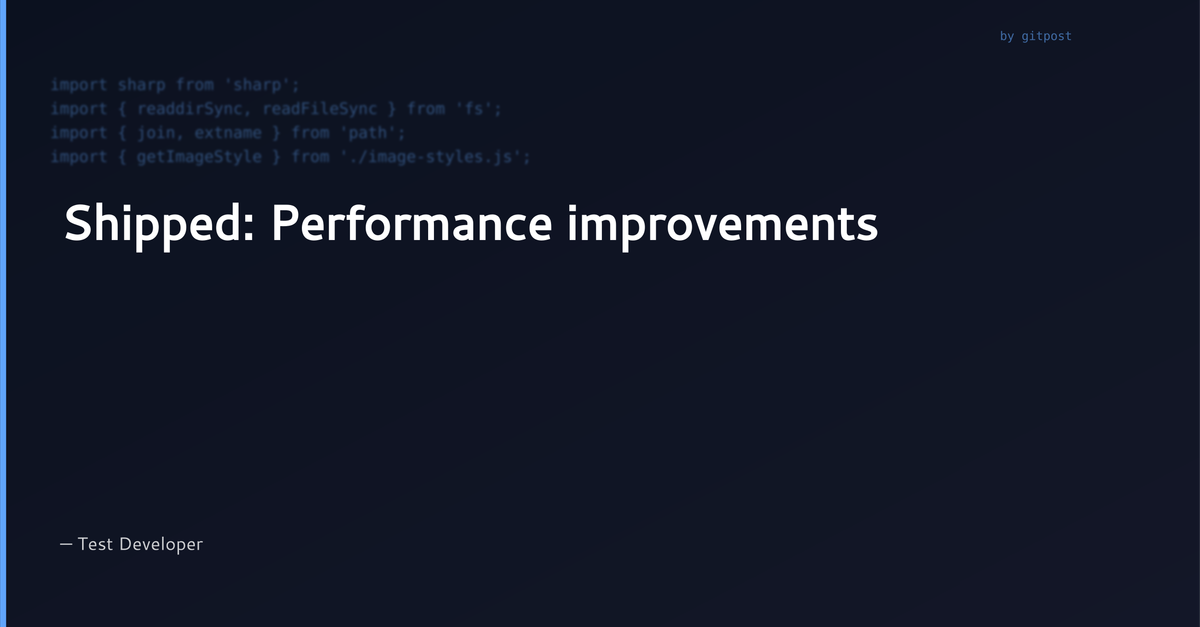
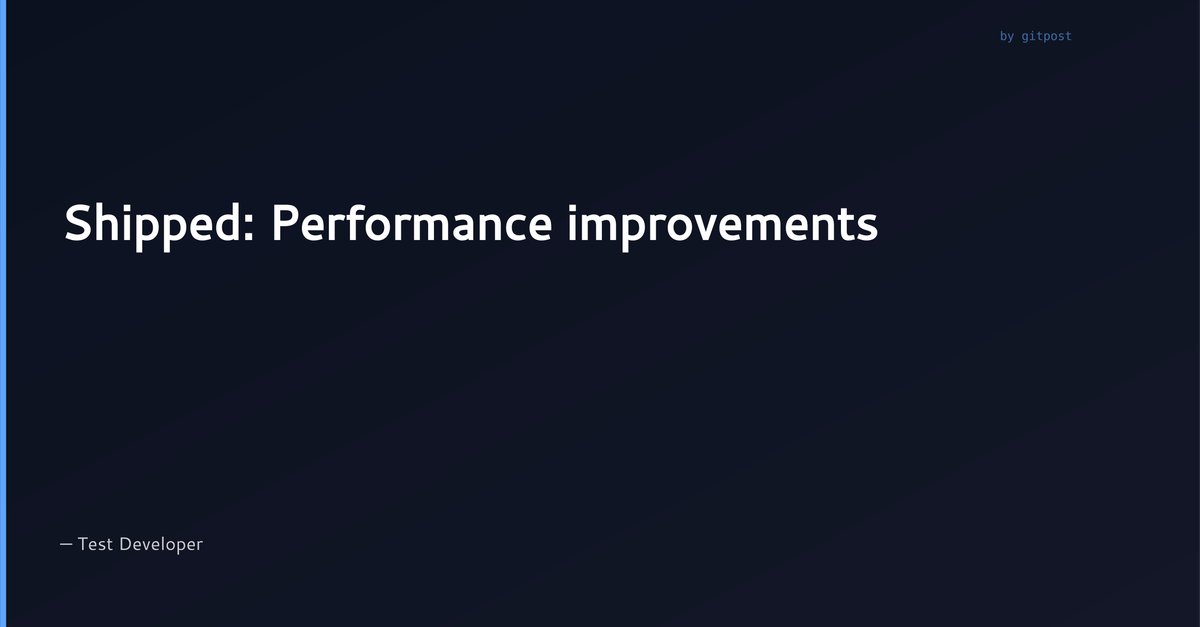
Fix: Extract code from changed files in git diff, not just diff content
- Use git diff-tree --name-only to get list of changed file paths
- Filter for code files (.js, .ts, .jsx, .tsx, .py, .java, .rb, .go, .rs, .c, .cpp, .cs, .php)
- Pick a random code file that was changed
- Read the actual file content from that commit version
- Use first 8 lines of code in the cover image
- Falls back to random src/ file if no code files changed
- Result: Image shows ACTUAL code from the developer's changes, not random project code

This is much better for LinkedIn posts - it displays the real work that was done.

diff --git a/src/image.js b/src/image.js
@@ -1,11 +1,66 @@
 import sharp from 'sharp';
 import { readdirSync, readFileSync } from 'fs';
+import { execSync } from 'child_process';
 import { join, extname } from 'path';
 import { getImageStyle } from './image-styles.js';
 
 // LinkedIn optimal cover image size
 const IMAGE_WIDTH = 1200;
 const IMAGE_HEIGHT = 627;
+
+/**
+ * Extract code from files changed in commit
+ * Gets the list of changed file paths from git diff, then reads code from those files
+ * @param {Array} commits - Commit objects with hash property
+ * @returns {string} Code snippet from changed files
+ */
+function extractCodeFromChangedFiles(commits) {
+  try {
+    if (!commits || commits.length === 0) {
+      return '';
+    }
+
+    // Get the most recent commit
+    const latestCommit = commits[0];
+    
+    // Get list of changed files in this commit
+    const filesChanged = execSync(
+      `git diff-tree --no-commit-id --name-only -r ${latestCommit.hash} 2>/dev/null || echo ""`,
+      { encoding: 'utf8', stdio: ['pipe', 'pipe', 'pipe'] }
+    ).trim().split('\n').filter(f => f.length > 0);
+
+    if (filesChanged.length === 0) {
+      return '';
+    }
+
+    // Filter for code files (js, ts, jsx, tsx, py, etc)
+    const codeFiles = filesChanged.filter(f => 
+      /\.(js|ts|jsx|tsx|py|java|rb|go|rs|c|cpp|h|cs|php)$/.test(f)
+    );
+
+    if (codeFiles.length === 0) {
+      return '';
+    }
+
+    // Pick a random code file
+    const randomFile = codeFiles[Math.floor(Math.random() * codeFiles.length)];
+    
+    // Read the file content
+    const content = execSync(
+      `git show ${latestCommit.hash}:${randomFile} 2>/dev/null || echo ""`,
+      { encoding: 'utf8', stdio: ['pipe', 'pipe', 'pipe'] }
+    );
+
+    if (content && content.length > 0) {
+      // Return first 8 lines
+      return content.split('\n').slice(0, 8).join('\n');
+    }
+
+    return '';
+  } catch (error) {
+    return '';
+  }
+}
 
 /**
  * Pick a random source file from the project
@@ -166,6 +221,7 @@ function createCoverSvg(headline, author, codeSnippet = '', style = {}) {
  * @param {string} options.outputPath - Where to save the image
  * @param {string} options.projectPath - Project root
  * @param {string} options.style - Image style name or config object
+ * @param {Array} options.commits - (Optional) Commit objects to extract code from
  * @returns {Promise<string>} Path to the generated image
  */
 export async function generateCoverImage({
@@ -174,6 +230,7 @@ export async function generateCoverImage({
   outputPath = './gitpost-cover.png',
   projectPath = process.cwd(),
   style = 'light_code',
+  commits = [],
 } = {}) {
   try {
     // Get style config
@@ -187,11 +244,19 @@ export async function generateCoverImage({
       styleConfig = style;
     }
 
-    // Get code snippet
+    // Get code snippet - prioritize git diff from commits
     let codeSnippet = '';
-    const sourceFile = pickRandomSourceFile(projectPath);
-    if (sourceFile) {
-      codeSnippet = sourceFile.content;
+    
+    if (commits && commits.length > 0) {
+      codeSnippet = extractCodeFromChangedFiles(commits);
+    }
+
+    // Fallback to random source file
+    if (!codeSnippet) {
+      const sourceFile = pickRandomSourceFile(projectPath);
+      if (sourceFile) {
+        codeSnippet = sourceFile.content;
+      }
     }
 
     // Create SVG

diff --git a/debug-code-extraction.js b/debug-code-extraction.js
@@ -1,0 +1,72 @@
+#!/usr/bin/env node
+
+import { execSync } from 'child_process';
+import { getCommits } from './src/git.js';
+
+async function debugCodeExtraction() {
+  console.log('🔍 Debugging code extraction from changed files\n');
+
+  try {
+    // Get recent commits
+    const commits = await getCommits({
+      author: '',
+      days: 7,
+    });
+
+    if (commits.length === 0) {
+      console.log('❌ No commits found');
+      return;
+    }
+
+    console.log(`📊 Latest commit:\n`);
+    const commit = commits[0];
+    console.log(`  Hash: ${commit.hash}`);
+    console.log(`  Message: ${commit.message}`);
+    console.log(`  Author: ${commit.author}\n`);
+
+    console.log('📝 Changed files in this commit:\n');
+    
+    // Get list of changed files
+    const filesChanged = execSync(
+      `git diff-tree --no-commit-id --name-only -r ${commit.hash}`,
+      { encoding: 'utf8' }
+    ).trim().split('\n');
+
+    filesChanged.forEach(f => console.log(`  - ${f}`));
+    console.log('');
+
+    // Filter for code files
+    const codeFiles = filesChanged.filter(f => 
+      /\.(js|ts|jsx|tsx|py|java|rb|go|rs|c|cpp|h|cs|php)$/.test(f)
+    );
+
+    console.log(`💻 Code files that changed: ${codeFiles.length}\n`);
+    codeFiles.forEach(f => console.log(`  - ${f}`));
+    console.log('');
+
+    if (codeFiles.length > 0) {
+      // Show content of first code file
+      const firstFile = codeFiles[0];
+      console.log(`📄 First file to be used: ${firstFile}\n`);
+      
+      const content = execSync(
+        `git show ${commit.hash}:${firstFile}`,
+        { encoding: 'utf8' }
+      );
+
+      const lines = content.split('\n').slice(0, 8);
+      console.log('Code from that file (first 8 lines):\n');
+      console.log('---');
+      lines.forEach(line => console.log(line));
+      console.log('---\n');
+      
+      console.log(`✅ ${lines.length} lines of code ready to be used in image`);
+    } else {
+      console.log('⚠  No code files found in this commit');
+    }
+  } catch (error) {
+    console.error('❌ Error:', error.message);
+  }
+}
+
+debugCodeExtraction();

diff --git a/test-git-diff.js b/test-git-diff.js
@@ -1,0 +1,51 @@
+#!/usr/bin/env node
+
+import { generateCoverImage } from './src/image.js';
+import { getCommits } from './src/git.js';
+
+async function test() {
+  console.log('🎨 Testing image generation with git diff code\n');
+
+  try {
+    // Get recent commits
+    const commits = await getCommits({
+      author: '',
+      days: 7,
+    });
+
+    if (commits.length === 0) {
+      console.log('❌ No commits found in last 7 days');
+      process.exit(1);
+    }
+
+    console.log(`📊 Found ${commits.length} commits\n`);
+    console.log('Latest commit:');
+    console.log(`  Hash: ${commits[0].hash}`);
+    console.log(`  Message: ${commits[0].message}`);
+    console.log(`  Author: ${commits[0].author}`);
+    console.log(`  Date: ${commits[0].date}\n`);
+
+    console.log('🖼  Generating image with code from git diff...\n');
+
+    const imagePath = await generateCoverImage({
+      headline: 'Building better things this week',
+      author: commits[0].author,
+      outputPath: './test-git-diff.png',
+      projectPath: process.cwd(),
+      style: 'light_code',
+      commits: commits,
+    });
+
+    console.log(`✅ Image saved: ${imagePath}`);
+    console.log('\n📝 This image should contain:');
+    console.log('   - Actual code from the git diff of the latest commit');
+    console.log('   - Light gray background');
+    console.log('   - Blue code text in top-left');
+    console.log('   - Dark headline and author name');
+  } catch (error) {
+    console.error('❌ Error:', error.message);
+    process.exit(1);
+  }
+}
+
+test();

diff --git a/test-cli-image.js b/test-cli-image.js
@@ -1,0 +1,28 @@
+#!/usr/bin/env node
+
+import { execSync } from 'child_process';
+
+console.log('🧪 Testing CLI with image generation\n');
+
+try {
+  // This will fail at AI step (no API key), but that's OK
+  // We just want to see if the code extraction from git works
+  const output = execSync(
+    'gitpost generate --author "Test User" --since 7 --include-image --image-style light_code 2>&1',
+    { encoding: 'utf8', stdio: 'pipe' }
+  );
+  
+  console.log(output);
+  console.log('\n✅ Image generation completed!');
+} catch (error) {
+  const output = error.stdout || error.toString();
+  
+  // Check if image was created despite API error
+  try {
+    execSync('ls -lh gitpost-cover.png', { encoding: 'utf8' });
+    console.log(output);
+    console.log('\n✅ Image generated even though AI failed (expected)');
+  } catch (e) {
+    console.log(output);
+  }
+}

diff --git a/src/index.js b/src/index.js
@@ -104,6 +104,7 @@ program
             outputPath: './gitpost-cover.png',
             projectPath: process.cwd(),
             style: options.imageStyle,
+            commits: commits,
           });
 
           console.log(`✅ Cover image saved: ${imagePath}\n`);
